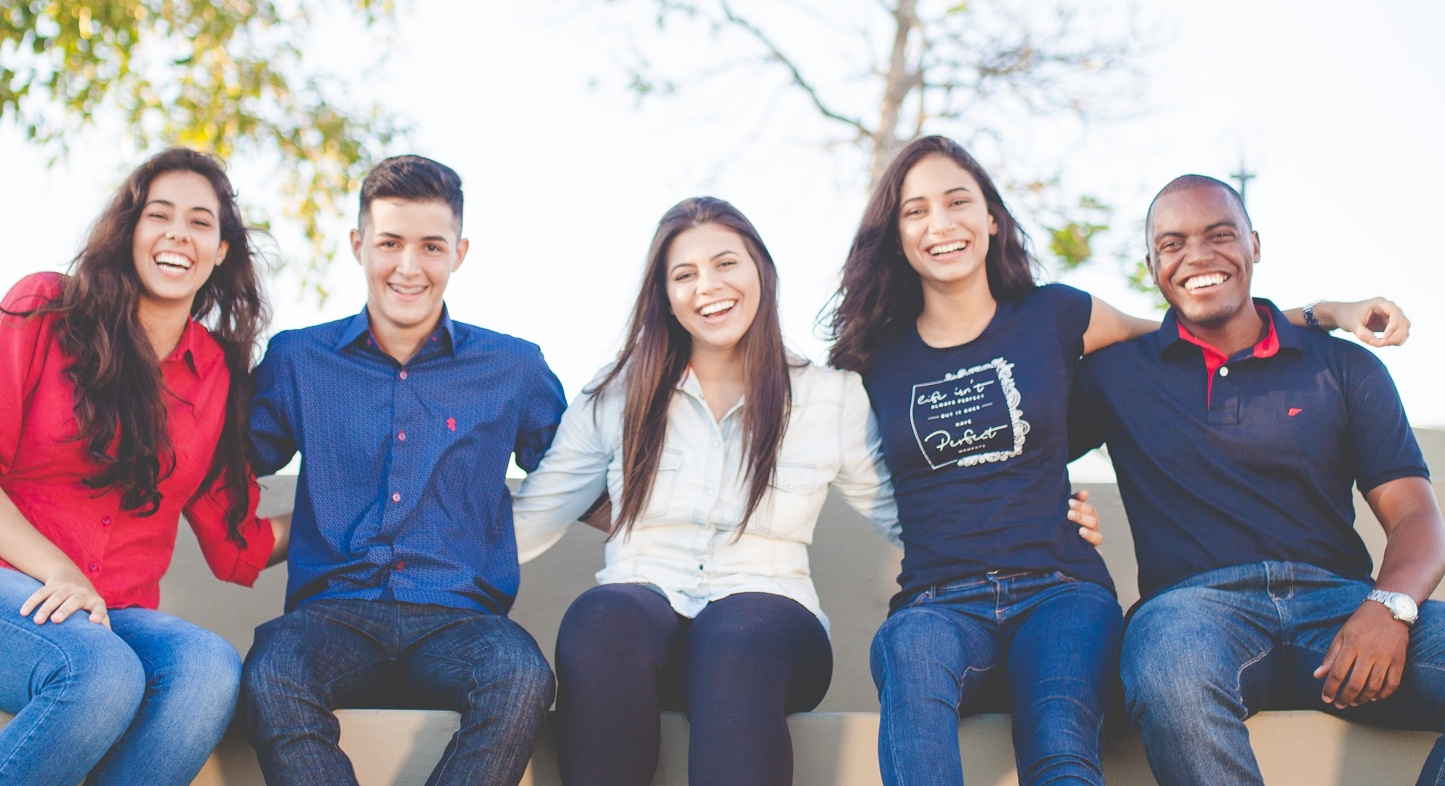
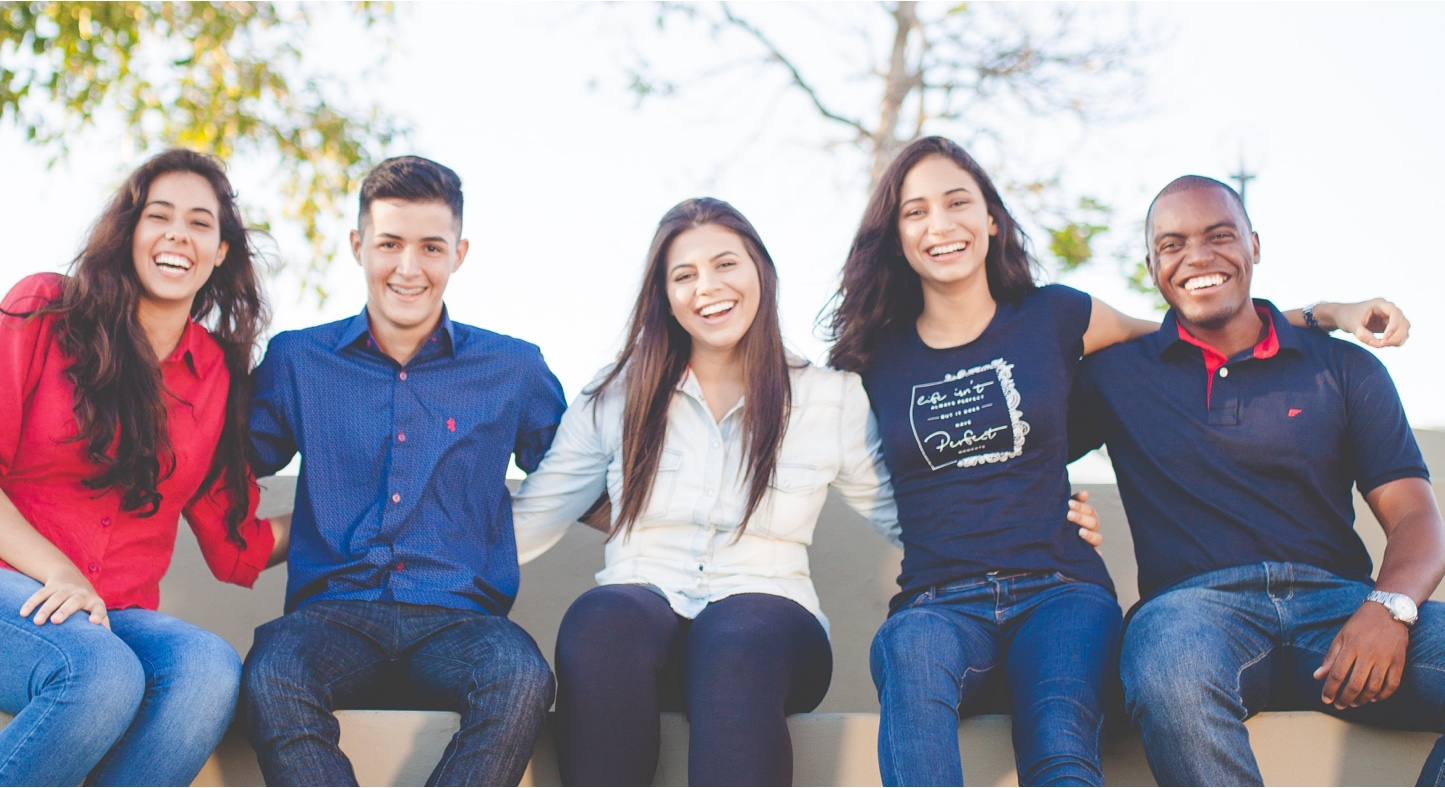
fixes

diff --git a/src/screens/ForStudents/index.js b/src/screens/ForStudents/index.js
@@ -9,10 +9,10 @@ import EmailForm from "../../components/EmailForm";
 import "./index.scss";
 import TwoColumnsHugeInfo from "../Programs/components/TwoColumnsHugeInfo";
 import useWindowDimensions from "../../hooks/useWindowDimensions";
-import forStudentsFirst from "../../images/for-students-first.jpg";
-import forStudentsSecond from "../../images/for-students-second.jpg";
-import forStudentsThird from "../../images/for-students-third.jpg";
-import forStudentsForth from "../../images/for-students-forth.jpg";
+import forStudentsFirst from "../../images/for-students-first@3x.jpg";
+import forStudentsSecond from "../../images/for-students-second@3x.jpg";
+import forStudentsThird from "../../images/for-students-third@3x.jpg";
+import forStudentsForth from "../../images/for-students-forth@3x.jpg";
 import {useHistory} from "react-router-dom";
 
 const ForStudents = () => {

diff --git a/src/screens/OurVision/index.js b/src/screens/OurVision/index.js
@@ -14,7 +14,8 @@ import ImageBlock from "../../components/ImageBlock";
 import TwoColumnsHugeInfo from "../Programs/components/TwoColumnsHugeInfo";
 import HugeInfoAllListColumn from "../Programs/components/HugeInfoAllListColumn";
 import LeftImageTitleSubDesList from "../../components/LeftImageTitleSubDesList";
-import ourVisionHeader from '../../images/our-vision-header.jpg';
+import ourVisionHeader from '../../images/our-vision-header@3x.jpg';
+import ourVisionFirst from '../../images/our-vision-first@3x.jpg';
 import {useHistory} from "react-router-dom";
 
 const OurVision = () => {
@@ -54,7 +55,7 @@ const OurVision = () => {
       />
 
       <LeftImageTitleSubDesList
-        imgUrl={""}
+        imgUrl={ourVisionFirst}
         title={"OUR VALUES"}
         subtitle={"We make it easy to kickstart your vision."}
         list={options.values}

diff --git a/src/screens/Community/index.js b/src/screens/Community/index.js
@@ -19,9 +19,9 @@ import ImageBlock from "../../components/ImageBlock";
 import ProgramCommunityListPartner from "../Programs/components/ProgramCommunityListPartner";
 import ColorBlock from "../../components/ColorBlock";
 import communitySVG from '../../images/Community.svg';
-import communityFirst from '../../images/community-first.jpg';
-import communitySecond from '../../images/community-second.jpg'
-import communityThird from '../../images/community-third.jpg'
+import communityFirst from '../../images/community-first@3x.jpg';
+import communitySecond from '../../images/community-second@3x.jpg';
+import communityThird from '../../images/community-third@3x.jpg';
 import LeftInfoWithRightImage from "../Programs/components/LeftInfoWithRightImage";
 import {useHistory} from "react-router-dom";
 

diff --git a/src/screens/ForStartups/index.js b/src/screens/ForStartups/index.js
@@ -12,7 +12,7 @@ import useWindowDimensions from "../../hooks/useWindowDimensions";
 import forStartupsFirstImage from '../../images/contact-second.jpg';
 import forStartupsSecondImage from '../../images/for-startups-passion.jpg';
 import forStartupsThirdImage from '../../images/for-startups-access.jpg';
-import forStartupsInsightImage from '../../images/for-startups-insight.jpg';
+import forStartupsInsightImage from '../../images/for-startups-insight@3x.jpg';
 import {useHistory} from "react-router-dom";
 
 const ForStartups = () => {

diff --git a/src/screens/ForInvestors/index.js b/src/screens/ForInvestors/index.js
@@ -11,7 +11,7 @@ import useWindowDimensions from "../../hooks/useWindowDimensions";
 import {useHistory} from "react-router-dom";
 import forInvestorsFirst from "../../images/for-investors-first.jpg";
 import forInvestorsSecond from "../../images/for-investors-second.jpg";
-import forInvestorsThird from "../../images/for-investors-third.jpg";
+import forInvestorsThird from "../../images/for-investors-third@3x.jpg";
 import forInvestorsFourth from "../../images/for-investors-forth.jpg";
 
 const ForInvestors = () => {
